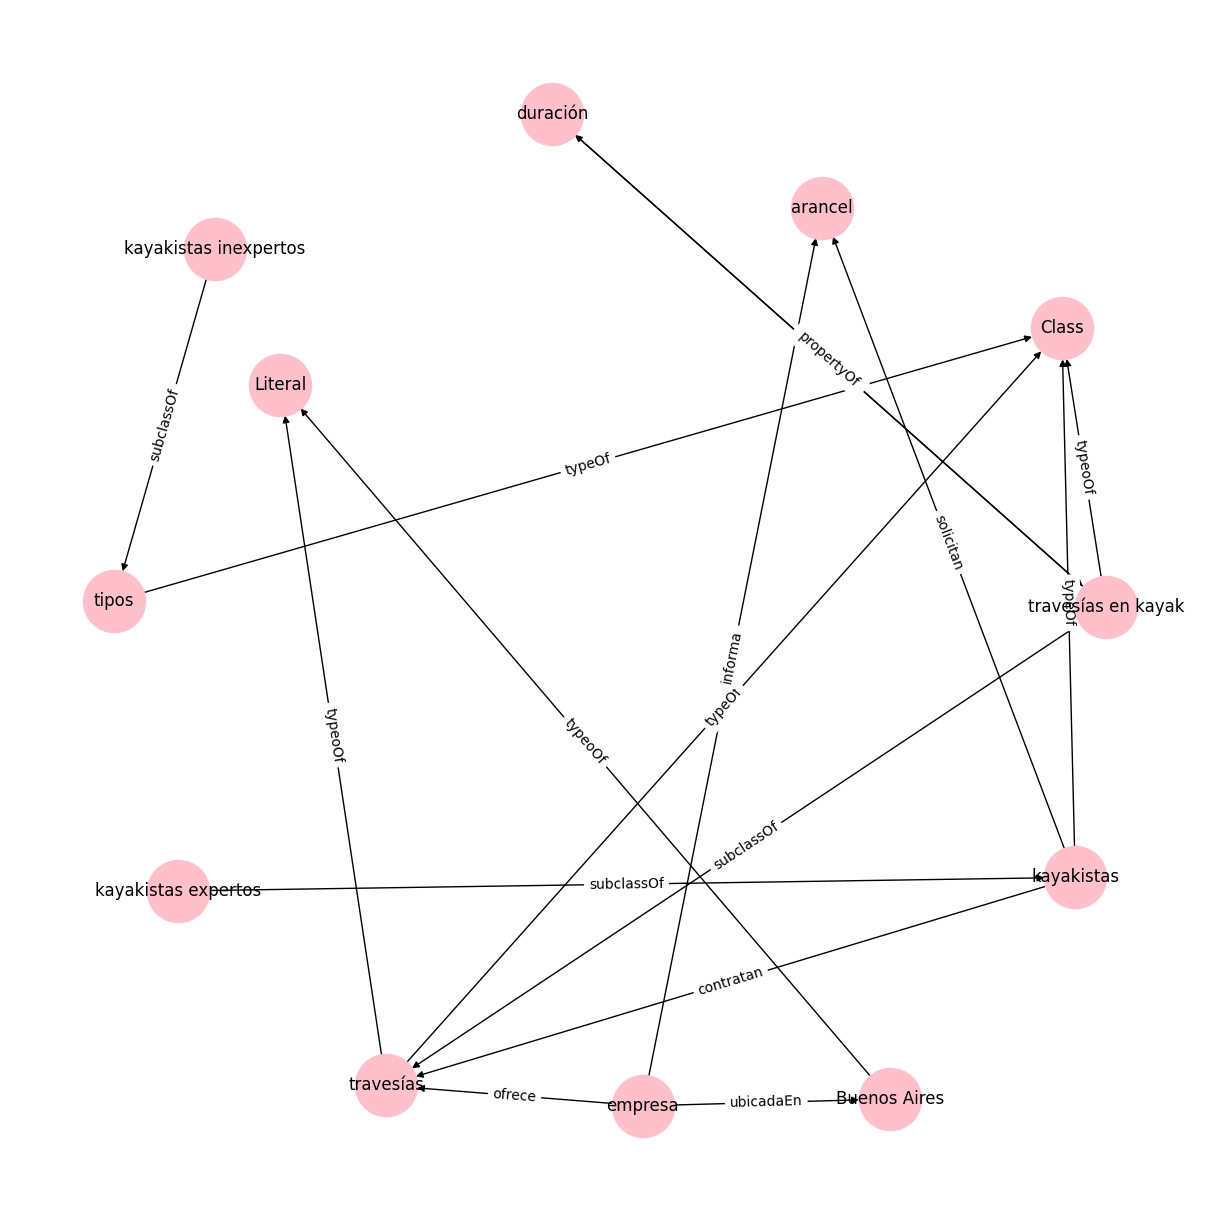
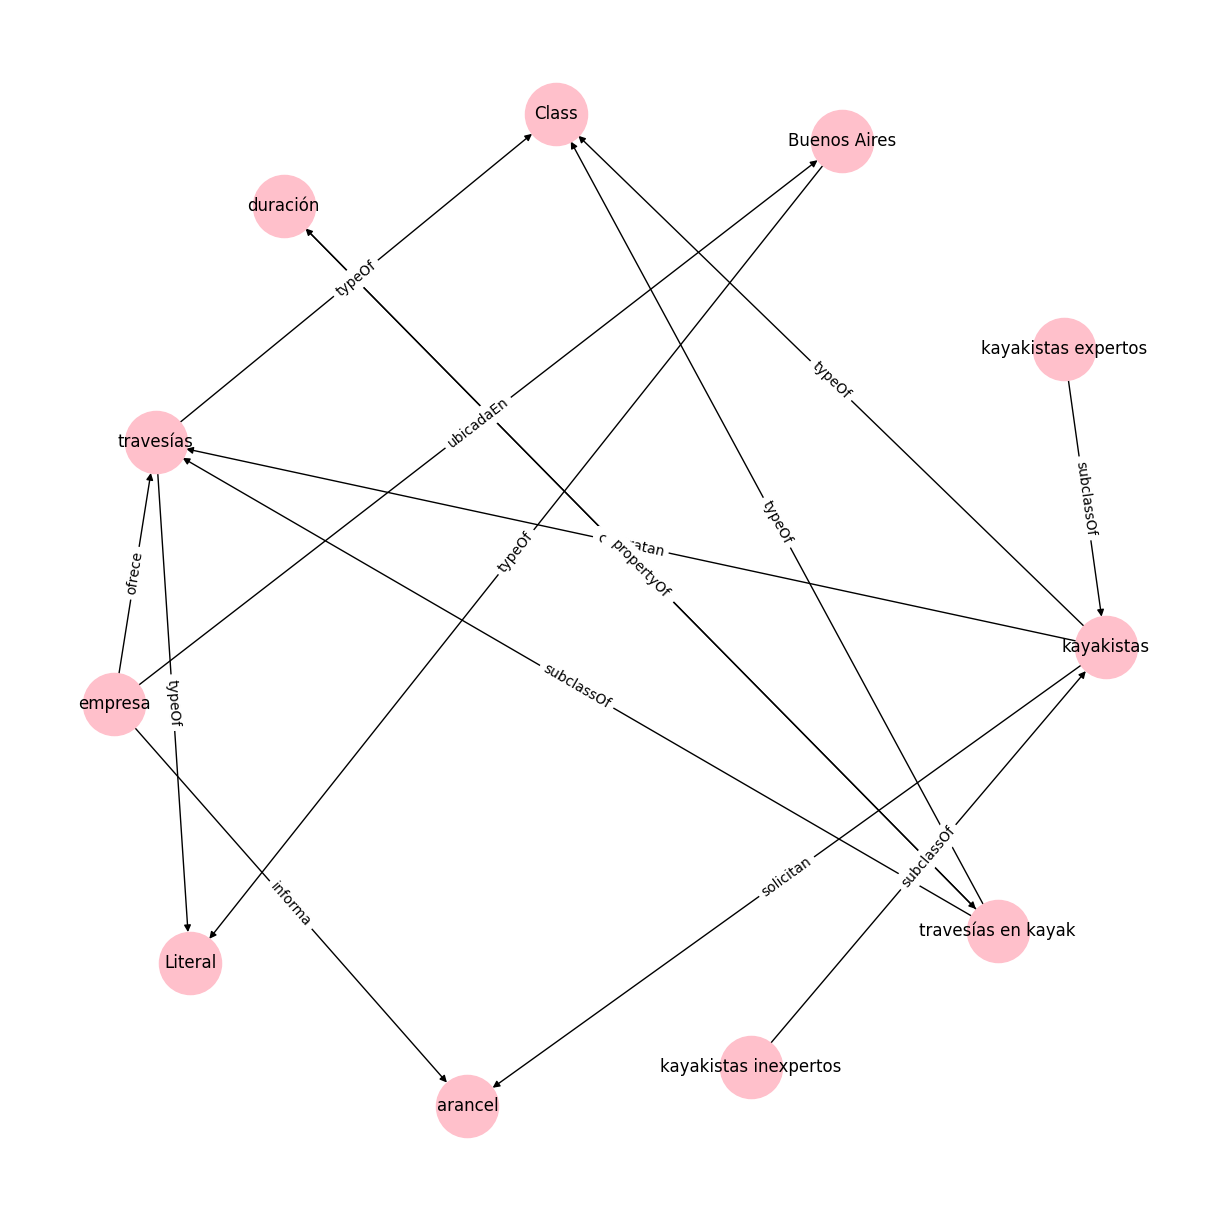
fix: correct typo in a property's name

diff --git a/Tool.py b/Tool.py
@@ -226,14 +226,14 @@ def cosasParaHacerElGrafo(sentenceList, dataset):
                     NLP(token)[0].ent_type_ != ""
                     and token not in entidades_con_propiedades
                 ):
-                    dataset.append((token, "typeoOf", "Literal"))
+                    dataset.append((token, "typeOf", "Literal"))
 
     # estos de abajo son para definir clases
 
     # ocurrencesOfEntity= Counter(entities)
     # for i in ocurrencesOfEntity:
     #     if ocurrencesOfEntity[i] >= 3:
-    #         dataset.append((i, "typeoOf", "Class"))
+    #         dataset.append((i, "typeOf", "Class"))
     #         #------ sacar
     #         source.append(i)
     #         relations.append("typeOf")
@@ -241,13 +241,13 @@ def cosasParaHacerElGrafo(sentenceList, dataset):
     #         #------ sacar
 
     for i in Counter(entidades_con_propiedades):
-        dataset.append((i, "typeoOf", "Class"))
+        dataset.append((i, "typeOf", "Class"))
 
     printGraph(dataset)
 
 
 # ----------------------
-doc = "Los kayakistas inexpertos son tipos de kayakistas. Las travesías en kayak son travesías. La empresa ofrece travesías en kayak. Las travesías en kayak tienen duración. Los kayakistas contratan travesías en kayak. La empresa informa el arancel. Los kayakistas solicitan arancel. La empresa está ubicada en Buenos Aires. Los kayakistas expertos son kayakistas."
+doc = "Los kayakistas inexpertos son kayakistas. Las travesías en kayak son travesías. La empresa ofrece travesías en kayak. Las travesías en kayak tienen duración. Los kayakistas contratan travesías en kayak. La empresa informa el arancel. Los kayakistas solicitan arancel. La empresa está ubicada en Buenos Aires. Los kayakistas expertos son kayakistas."
 doc = sentences_parser(doc)
 
 dataset = list()
